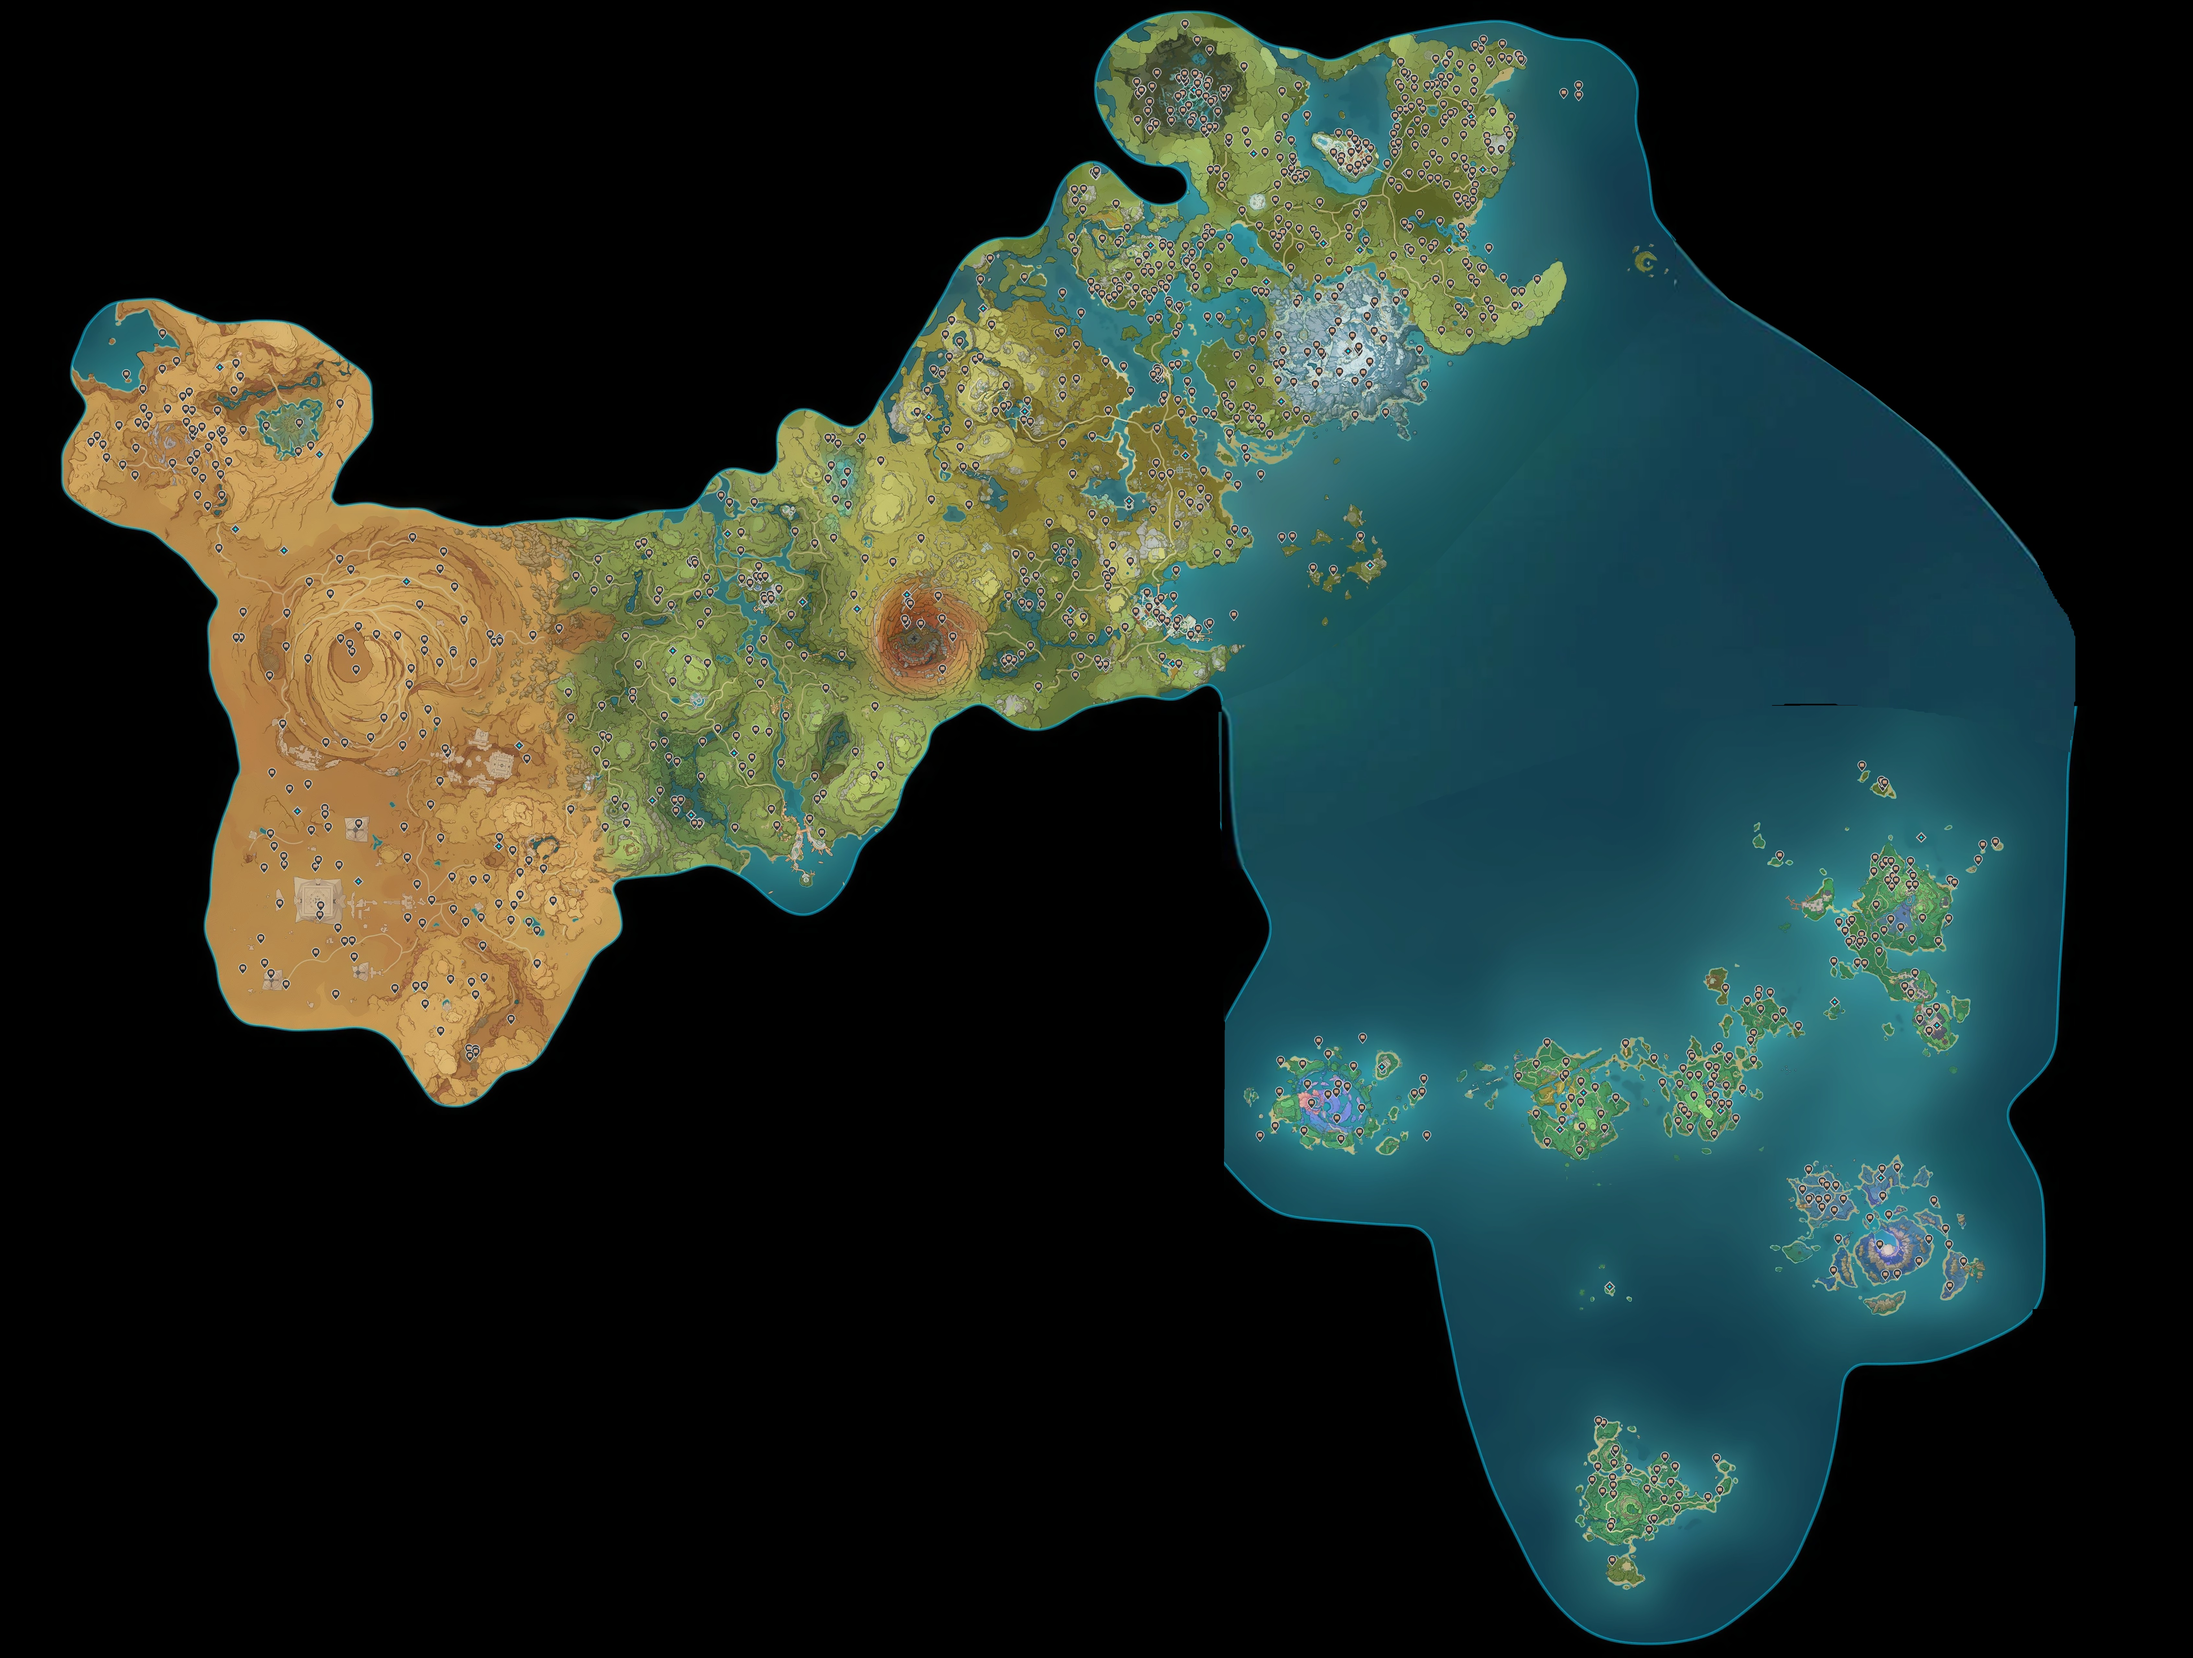
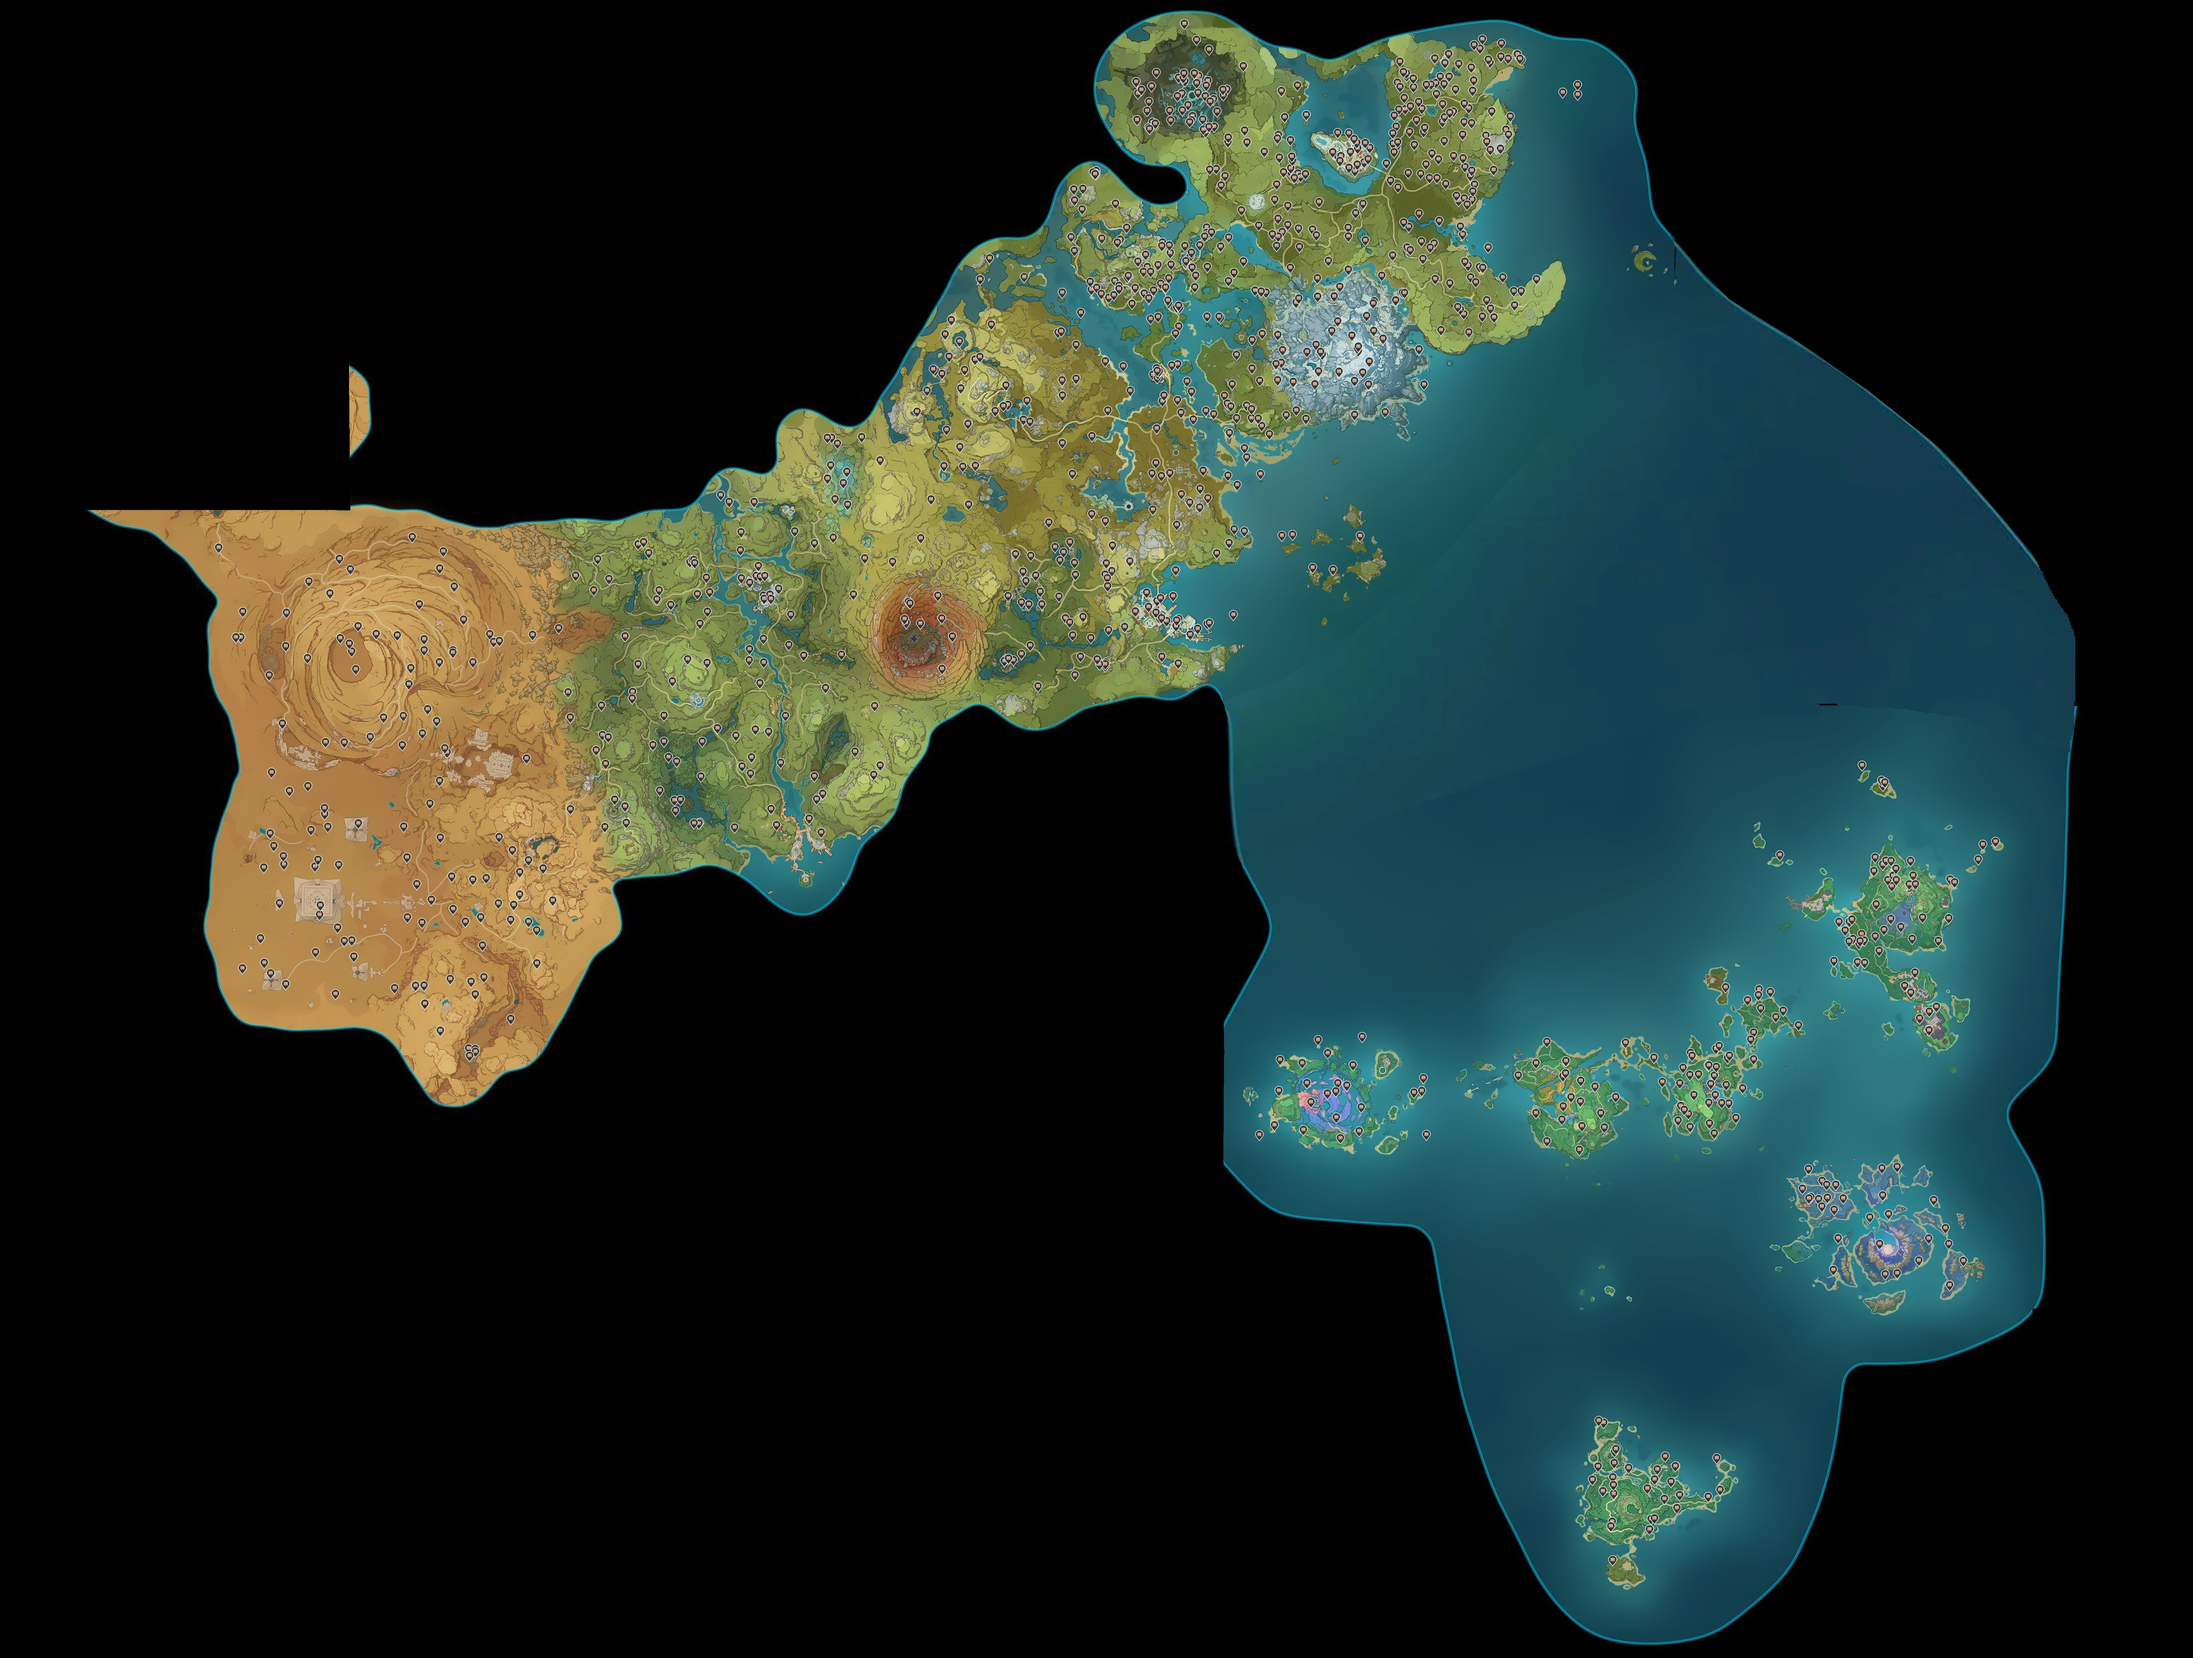
bug fixes

diff --git a/python/getmaps.py b/python/getmaps.py
@@ -80,14 +80,16 @@ def pan(xoff, yoff=0):
             remainderX, remainderY = 0, 0
 
 
-def screenshot_To_Cv(images):
+def screenshot_To_Cv():
+    global images
     image_stream = BytesIO(driver.get_screenshot_as_png())
     pil_image = Image.open(image_stream)
     img = cv2.cvtColor(np.array(pil_image), cv2.COLOR_RGB2BGR)
     images.append(img)
 
 
-def screenshot(title, images):
+def screenshot(title):
+    global images
     time.sleep(1.7)  # wait for page to load
 
     mapSidebar = driver.find_element(
@@ -120,50 +122,51 @@ def screenshot(title, images):
     # move map to starting position
     time.sleep(1)
     pan(50, 1300)
-    screenshot_To_Cv(images)
+    print(len(images))
+    screenshot_To_Cv()
     pan(dragDistanceX)
-    screenshot_To_Cv(images)  # 03
+    screenshot_To_Cv()  # 03
     pan(0, dragDistanceY)
-    screenshot_To_Cv(images)  # 03
+    screenshot_To_Cv()  # 03
     # screenshot pan repeat - convert to for loops when finished
     for _ in range(3):
         pan(-1 * dragDistanceX)
-        screenshot_To_Cv(images)  # 13 -> 10
+        screenshot_To_Cv()  # 13 -> 10
     pan(0, dragDistanceY)
-    screenshot_To_Cv(images)
+    screenshot_To_Cv()
     for _ in range(3):
         pan(dragDistanceX)
-        screenshot_To_Cv(images)  # 20 -> 23
+        screenshot_To_Cv()  # 20 -> 23
     pan(3300, dragDistanceY)
-    screenshot_To_Cv(images)  # 30
+    screenshot_To_Cv()  # 30
     pan(dragDistanceX)
-    screenshot_To_Cv(images)  # 31
+    screenshot_To_Cv()  # 31
     status, stitched = stitcher.stitch(images)
     images = []
     # inazuma
     pan(-2700, 100)
-    screenshot_To_Cv(images)
+    screenshot_To_Cv()
     pan(dragDistanceX)
-    screenshot_To_Cv(images)
+    screenshot_To_Cv()
     pan(0, dragDistanceY)
-    screenshot_To_Cv(images)
+    screenshot_To_Cv()
     pan(-1 * dragDistanceX)
-    screenshot_To_Cv(images)
+    screenshot_To_Cv()
     pan(-700, -400)
-    screenshot_To_Cv(images)
+    screenshot_To_Cv()
     pan(300, -500)
-    screenshot_To_Cv(images)
+    screenshot_To_Cv()
     pan(0, -400)
-    screenshot_To_Cv(images)
+    screenshot_To_Cv()
     status, stitched2 = stitcher.stitch(images)
-
+    images = []
     stitched_image_rgb = cv2.cvtColor(stitched, cv2.COLOR_BGR2RGB)
     stitched_image = Image.fromarray(stitched_image_rgb).convert("RGBA")
 
     stitched2_image_rgb = cv2.cvtColor(stitched2, cv2.COLOR_BGR2RGB)
     stitched2_image = Image.fromarray(stitched2_image_rgb).convert("RGBA")
 
-    ocean = Image.open("python/blue.png")
+    ocean = Image.open("python/mask.png")
 
     bg_image = Image.new("RGBA", (6767, 5117), (0, 0, 0, 255))
     bg_image.paste(stitched_image, (0, 0))
@@ -194,6 +197,6 @@ for mGs in range(13):
                 f".MarkerGroup:nth-of-type({mGs+2}) div.MuiBox-root button:nth-child({button+1})",
             )
             btn.click()
-            screenshot(btn.get_attribute("title"), images)
+            screenshot(btn.get_attribute("title"))
             driver.refresh()
 driver.close()

diff --git a/python/test.py b/python/test.py
@@ -1,11 +1,9 @@
-from PIL import Image
+list = []
 
-# Open the image file
-img = Image.open("python/blue.png")
-simg = Image.open("python/stitched.png")
-simg2 = Image.open("python/stitched2.png")
-bg_image = Image.new("RGBA", (6767, 5117), (0, 0, 0, 255))
-bg_image.paste(simg, (0, 0))
-bg_image.paste(simg2, (3760, 2176))
-bg_image.paste(img, (0, 0))
-bg_image.save("test.png")
+
+def stuff():
+    list.append("hi")
+    print(list)
+
+
+stuff()
